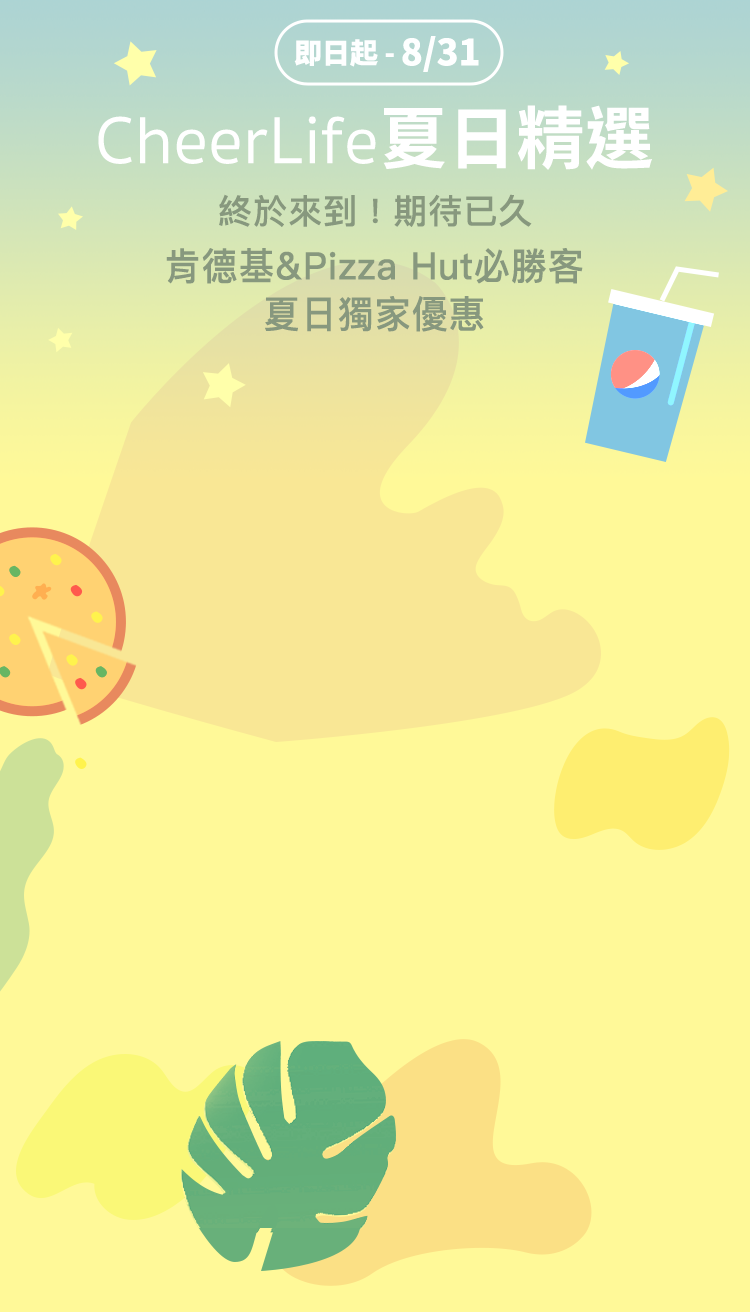
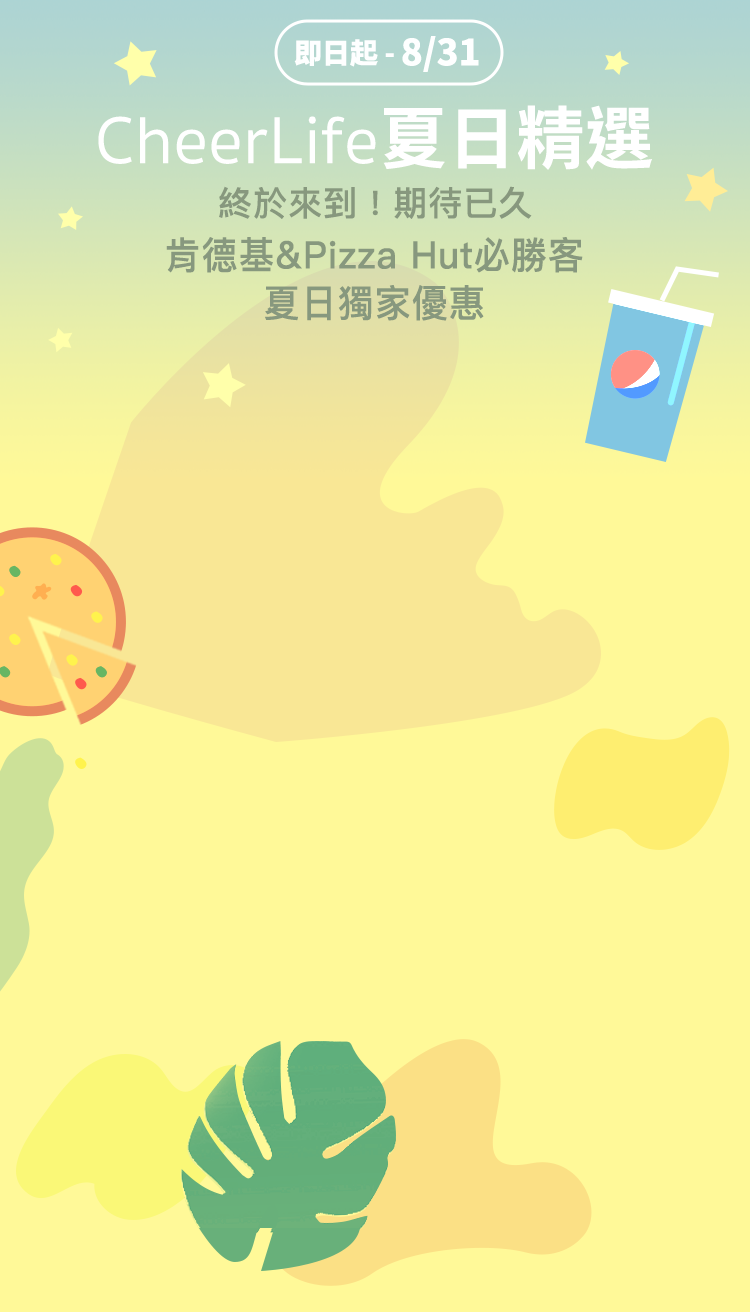
add png

Changed region(s): [[0.2147, 0.125, 0.7973, 0.25]]

diff --git a/index.html b/index.html
@@ -21,7 +21,7 @@
       }
       .parent-slider {
         width: 100vw;
-        margin-top: 28vh;
+        margin-top: 26vh;
         margin-left: auto;
         margin-right: auto;
         text-align: center;
